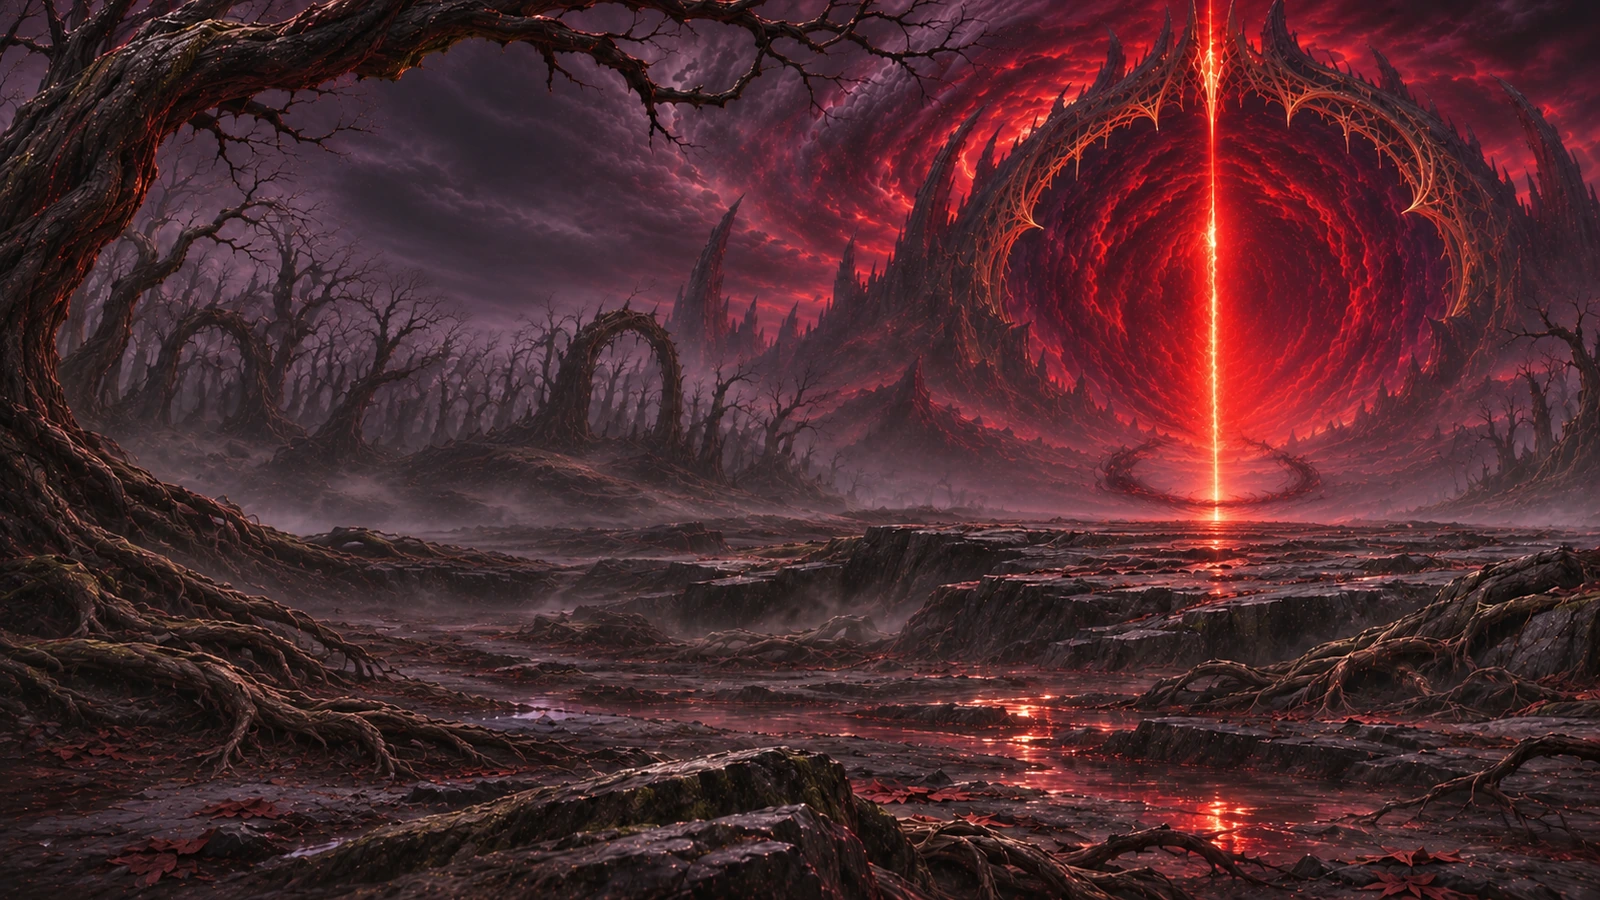
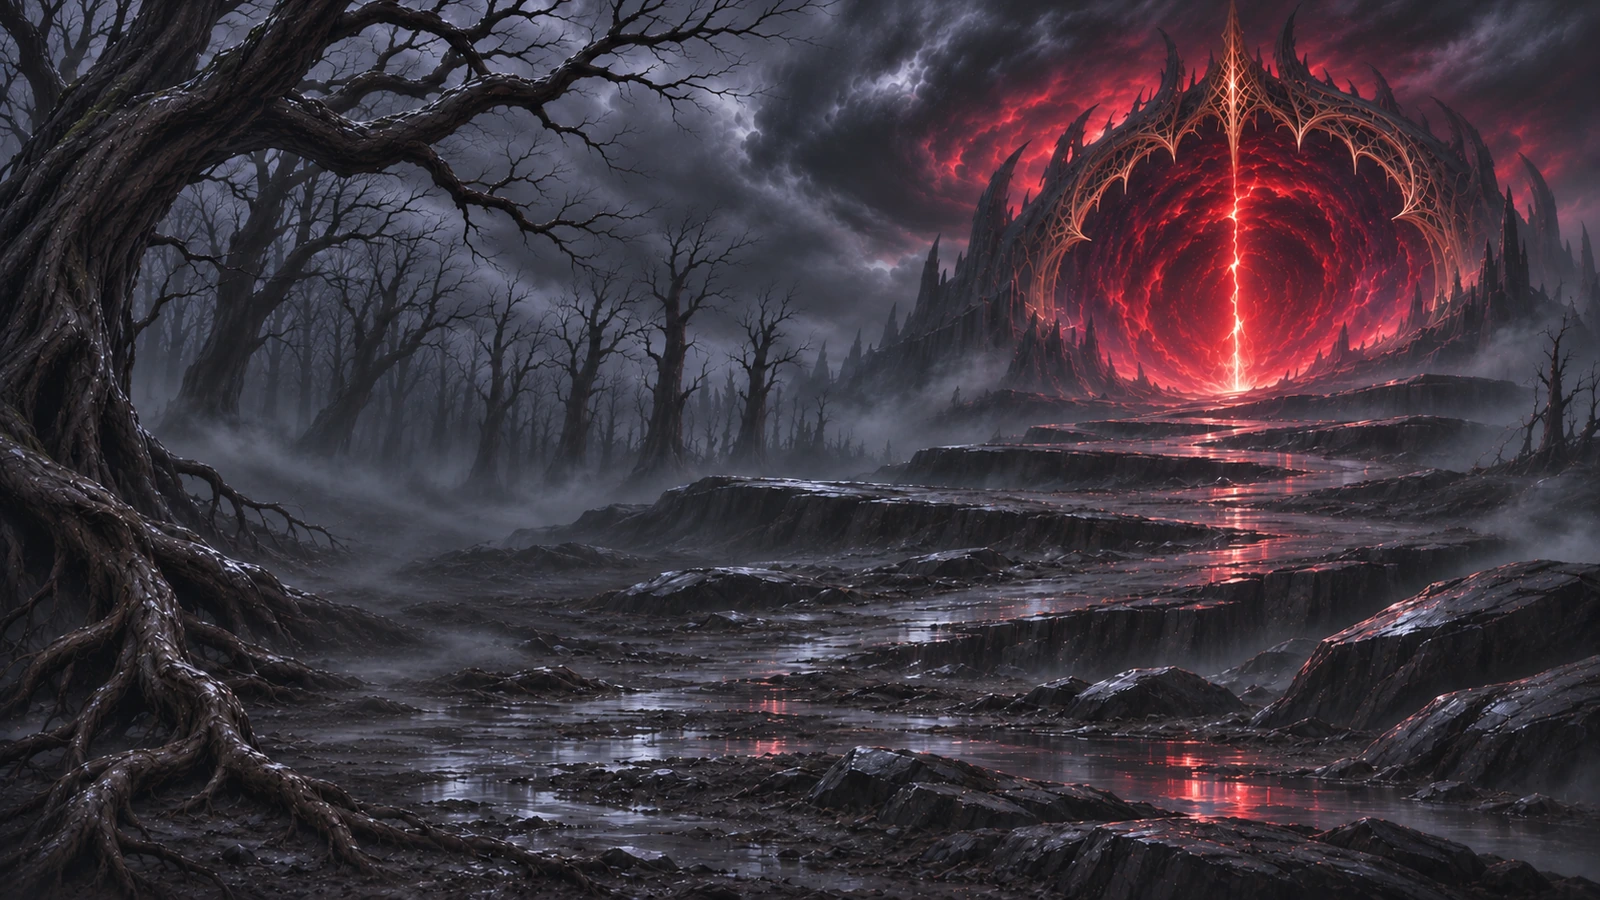
Finale : mise à jour des images clés S07 (v0.427)
Les 24 plans d'Iriana face à Alamma remplacent ceux de la v0.422, aux mêmes chemins, copie à l'identique.

diff --git a/fusion/story-finale-s09.js b/fusion/story-finale-s09.js
@@ -537,5 +537,5 @@ L’histoire continue dans le Tome II.`;
     String(id).startsWith('c19_') ? 'Chapitre XIX · ' + chapter : previousLabel(id);  // « XIX » sert seulement au rangement de l’interface (carte ch19).
 
   const update = document.querySelector('.menuUpdateBubble');
-  if (update) update.textContent = 'Mise à jour · v0.426 · Interface de combat discrète';
+  if (update) update.textContent = 'Mise à jour · v0.427 · Images clés S07';
 })();

diff --git a/tools/finale-gen/extra_c19.js b/tools/finale-gen/extra_c19.js
@@ -157,5 +157,5 @@ L’histoire continue dans le Tome II.`;
     String(id).startsWith('c19_') ? 'Chapitre XIX · ' + chapter : previousLabel(id);  // « XIX » sert seulement au rangement de l’interface (carte ch19).
 
   const update = document.querySelector('.menuUpdateBubble');
-  if (update) update.textContent = 'Mise à jour · v0.426 · Interface de combat discrète';
+  if (update) update.textContent = 'Mise à jour · v0.427 · Images clés S07';
 })();

diff --git a/fusion/story-finale-cinema.js b/fusion/story-finale-cinema.js
@@ -264,7 +264,7 @@
   }
 
   const update = document.querySelector('.menuUpdateBubble');
-  if (update) update.textContent = 'Mise à jour · v0.426 · Interface de combat discrète';
+  if (update) update.textContent = 'Mise à jour · v0.427 · Images clés S07';
 
   window.SylviniaFinaleCinema = {
     src: SRC,

diff --git a/docs/production/finale_divergences.md b/docs/production/finale_divergences.md
@@ -80,6 +80,8 @@ Deux points à valider par l’auteur :
 - **Quatre fiches personnages (Hylee forme finale, Alamma, Bhaal, Amanea forme finale) : référence de design uniquement, non affichées en jeu.** Consigne de l’auteur : « Les fiches sont à titre indicatif ». Elles sont rangées à l’identique dans `Ressource lore/Charactersheet/finale/`, à côté des autres fiches du dépôt. Aucune scène, ni le Codex, ni une galerie ne les charge, et elles ne figurent pas dans le registre d’assets `A`.
 - Détail et sha256 : [finale_assets_manifest.json](finale_assets_manifest.json).
 
-## Porte Noire en S07 (lot 2 d’images clés, v0.422)
+## Porte Noire en S07 (lot 2 d’images clés, v0.422, mise à jour v0.427)
 
-De S02 à S05, la Porte est un œil rouge dans un massif d’épines (décor `BG_PORTE` et plans clés des lots 1 et 2). Dans les plans S07 livrés (`chapter18-s07/`), elle devient une arche à côtes dorées dans une forêt calcinée, avec la même fente rouge centrale. Le décor du jeu reste celui des scènes précédentes ; les plans S07 sont intégrés tels quels, à trancher par l’auteur (s07_01 à 04, 08 à 17, 19 à 21, 23 et 24 montrent l’arche).
+De S02 à S05, la Porte est un œil rouge dans un massif d’épines (décor `BG_PORTE` et plans clés des lots 1 et 3). Les plans S07 livrés en v0.422 (`chapter18-s07/`) montraient une arche à côtes dorées dans une forêt calcinée, avec la même fente rouge centrale.
+
+Le 25/11/2026 (v0.427), l’auteur a remplacé les 24 plans. La Porte monumentale (œil rouge, anneau d’épines, plus proche de `BG_PORTE` et des lots 1 et 3) revient clairement aux plans 21, 23 et 24, qui cadrent la même clairière. Au plan 02, une arche de côtes rouges reste visible à gauche ; au plan 19, Alamma bascule dans une faille rouge. Pendant une grande partie de l’affrontement (plans 03, 04, 08 à 17 notamment), la Porte n’est pas dans le cadre : forêt brumeuse. Le décor `BG_PORTE` des écrans sans image clé est inchangé. Parti pris validé par l’auteur avec l’intégration des 24 plans.

diff --git a/docs/production/finale_changelog.md b/docs/production/finale_changelog.md
@@ -1,5 +1,13 @@
 # Journal · Final du Tome I
 
+## v0.427 (branche `assets/finale-s07-maj`)
+
+- Mise à jour des 24 images clés de la S07 (Iriana face à Alamma), livrée par l’auteur pour remplacer les plans intégrés en v0.422. Mêmes noms, mêmes chemins (`assets/images/keyscenes/chapter18-s07/`). Copie à l’identique (sha256 vérifié). Scènes, textes et duels inchangés.
+- Tenues d’Iriana et d’Alamma mieux alignées sur la S02 (blanc, or, émeraude / pourpre et or).
+- La Porte monumentale (œil rouge, anneau d’épines, plus proche de `BG_PORTE` et des lots 1 et 3) revient clairement aux plans 21, 23 et 24, qui cadrent la même clairière. Pendant une grande partie de l’affrontement, elle n’est pas dans le cadre : forêt brumeuse.
+- Couverture du roman, duels, Game Over, branches, sauvegardes `sylvinia_vn_v82`, CA et Studio inchangés.
+- Bulle de mise à jour : « v0.427 · Images clés S07 ».
+
 ## v0.426 (branche `feat/hud-combat-discret`)
 
 - Retour de l’auteur : le cartouche de duel masquait l’image clé (capture Fold, `c18_bh_dragon`). Le HUD des 4 duels (S04, S06, S07, S08) devient une barre fine et semi-transparente, collée sous l’en-tête et arrêtée avant les onglets.
